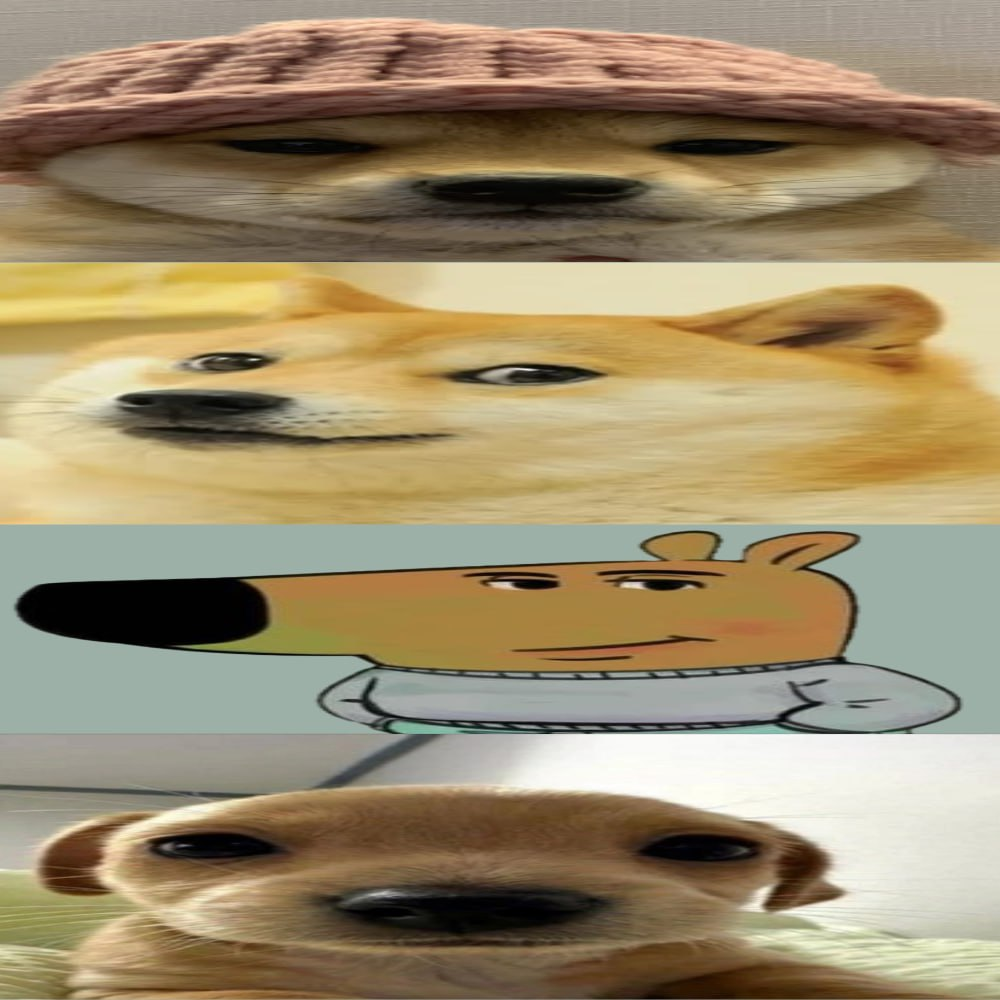
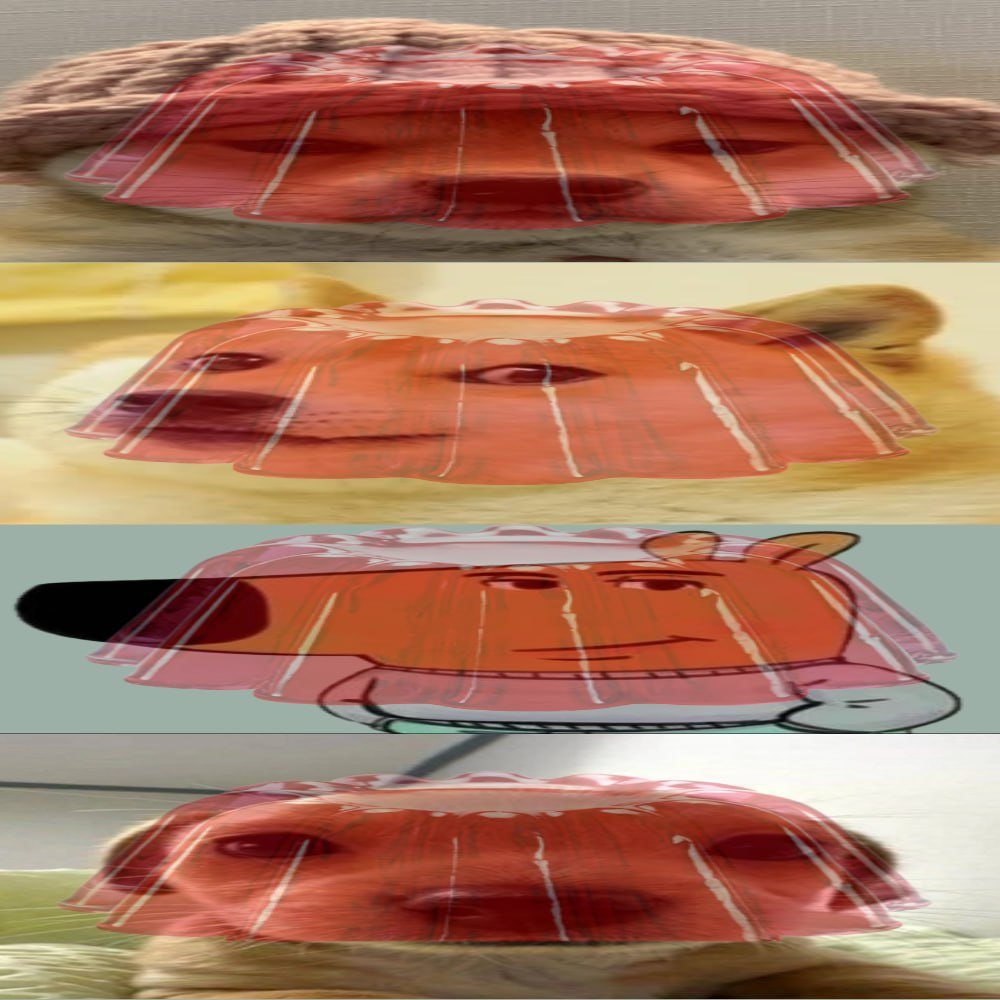
update

diff --git a/frontend/index.html b/frontend/index.html
@@ -35,10 +35,10 @@
 
   <div class="container">
     <div class="title-container">
-      <div class="image-text">DOGGY-MY-DOGGY</div>
+      <div class="image-text">JELLY-MY-DOGGY</div>
       <div class="image-text2">Man's Best Friend Strikes Back</div>
       <div class="contract-text">
-        Contract Address: HFgieuPUgAX26HTK7JrvDRzndyNNzv3A7UhNhRTtpump
+        Contract Address: coming soon
       </div>
     </div>
 
@@ -66,7 +66,7 @@
     <div class="info-sections">
       <!-- About / “What is doggy-my-doggy?” -->
       <section class="about">
-        <h2>What is Doggy-My-Doggy?</h2>
+        <h2>What is Jelly-My-Doggy?</h2>
         <p>
           bark bark bark bark bark bark bark bark bark bark bark bark bark bark
           ark bark bark bark bark bark bark bark bark bark bark bark bark bark,
